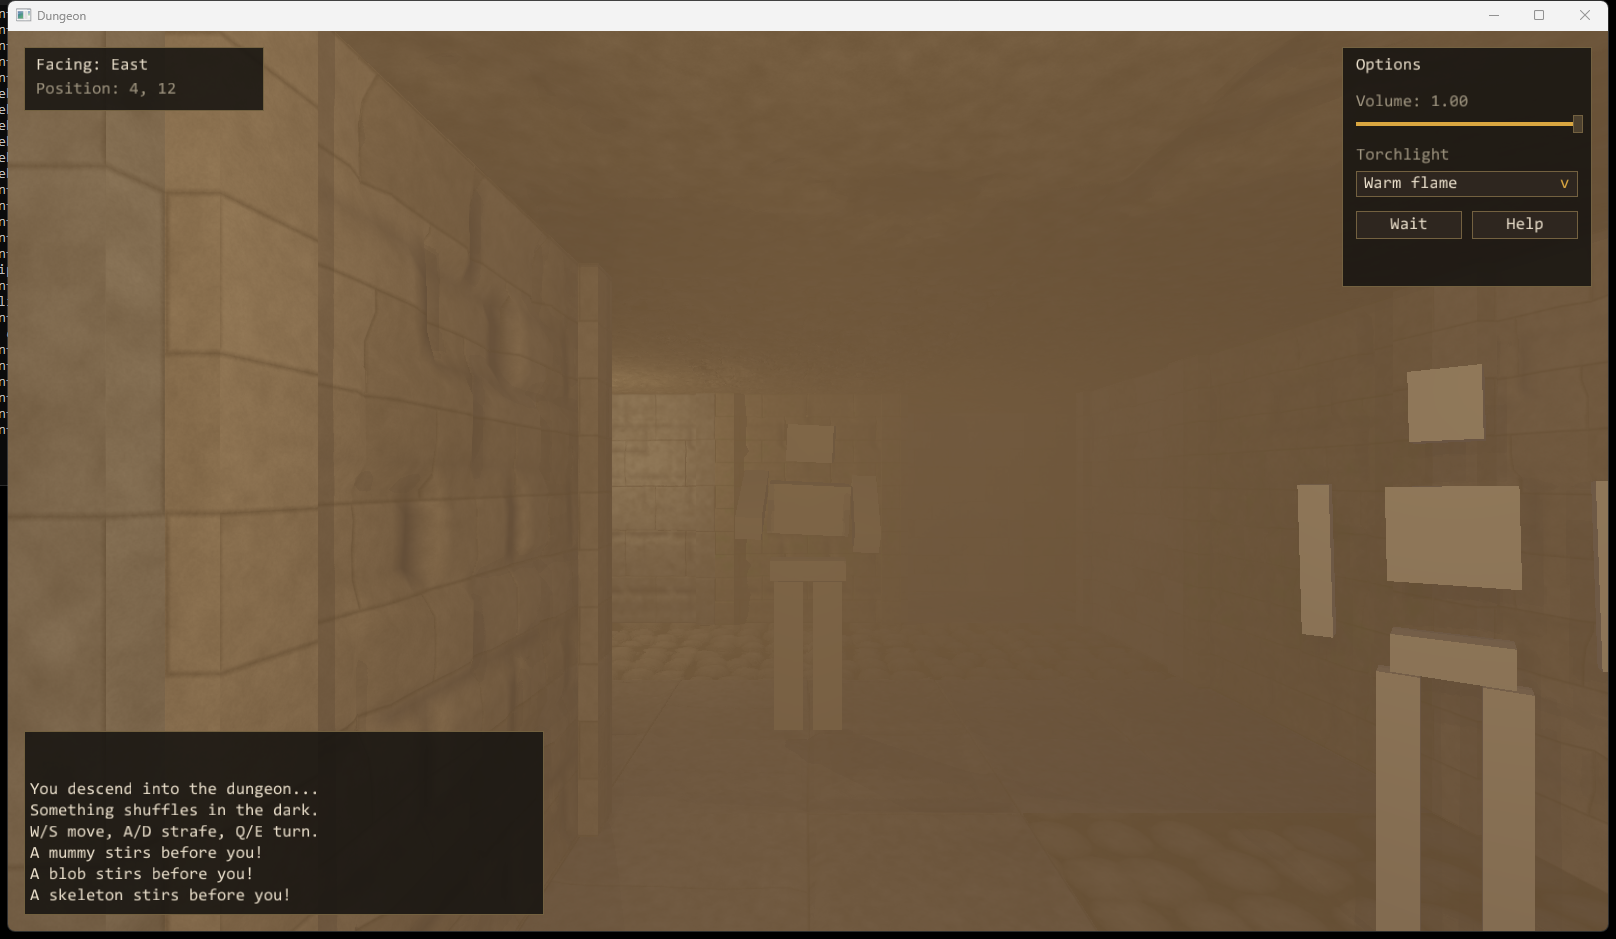
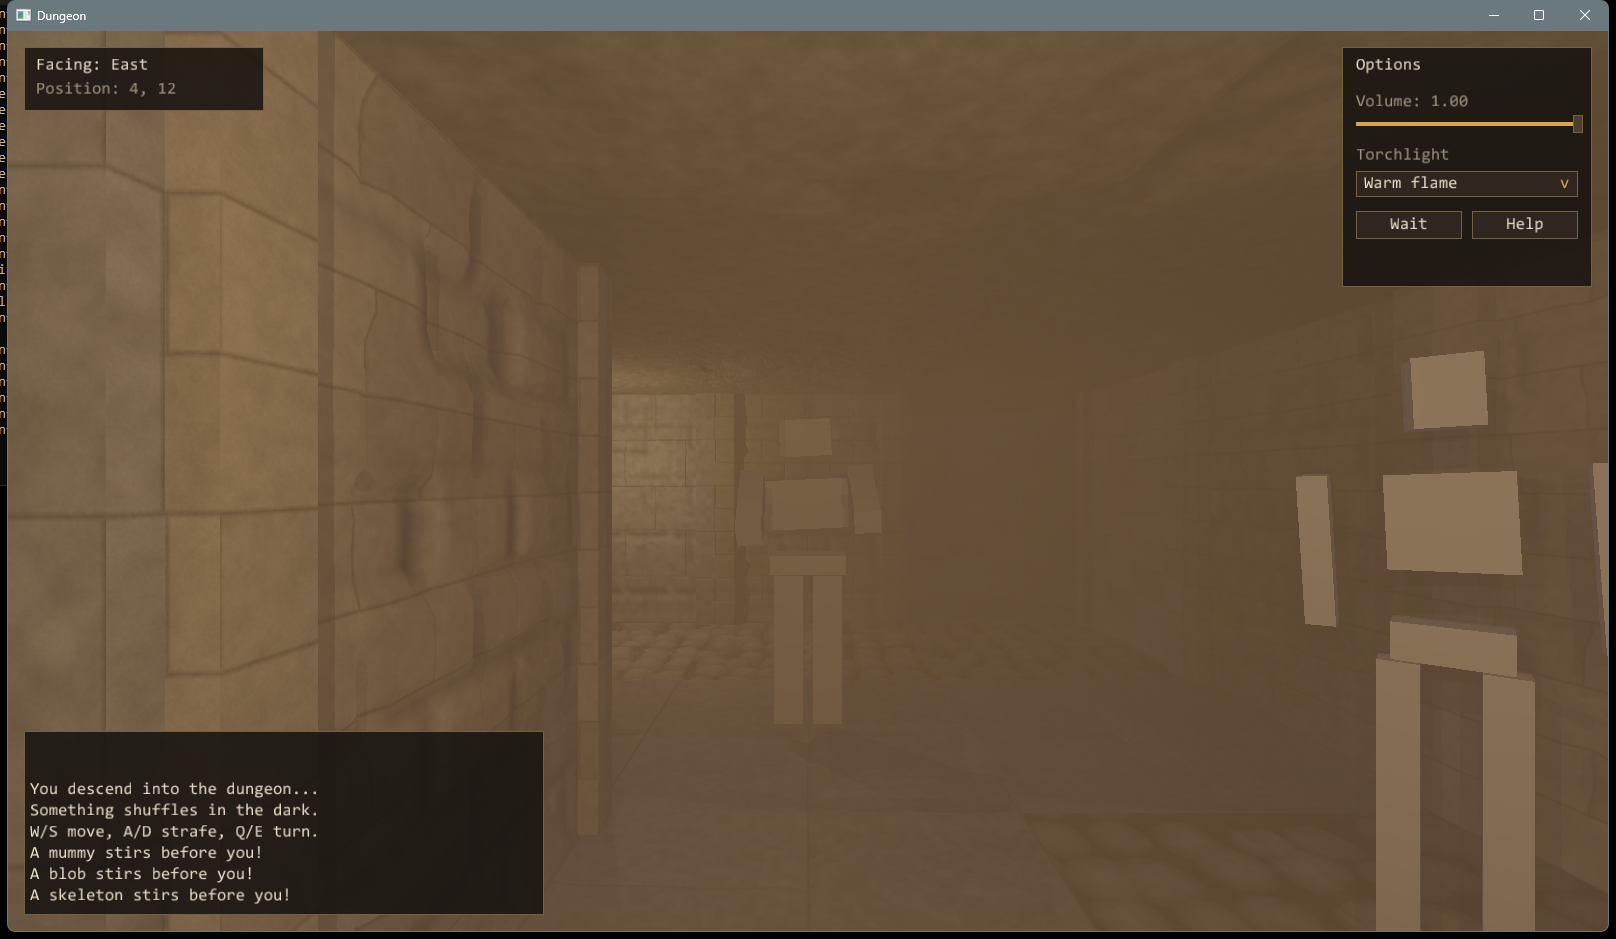
Lower dust density for punchier light shafts
Atmosphere::density 0.12 -> 0.09 optical depth per meter: deep views
through dusty halls keep more contrast, so the column and mummy shadow
volumes and the torch beams between them read clearly instead of
dissolving into uniform haze.

diff --git a/src/Graphics/Lights.h b/src/Graphics/Lights.h
@@ -53,7 +53,7 @@ struct Atmosphere {
 	// global in-scatter scale so torches make dust glow without washing
 	// the whole frame out.
 	Vec3 hazeColor{0.50f, 0.42f, 0.30f};
-	float density = 0.12f;             // optical depth per meter at turbidity 1
+	float density = 0.09f;             // optical depth per meter at turbidity 1
 	float hazeAmbient = 1.2f;          // how much ambient light the dust catches
 };
 